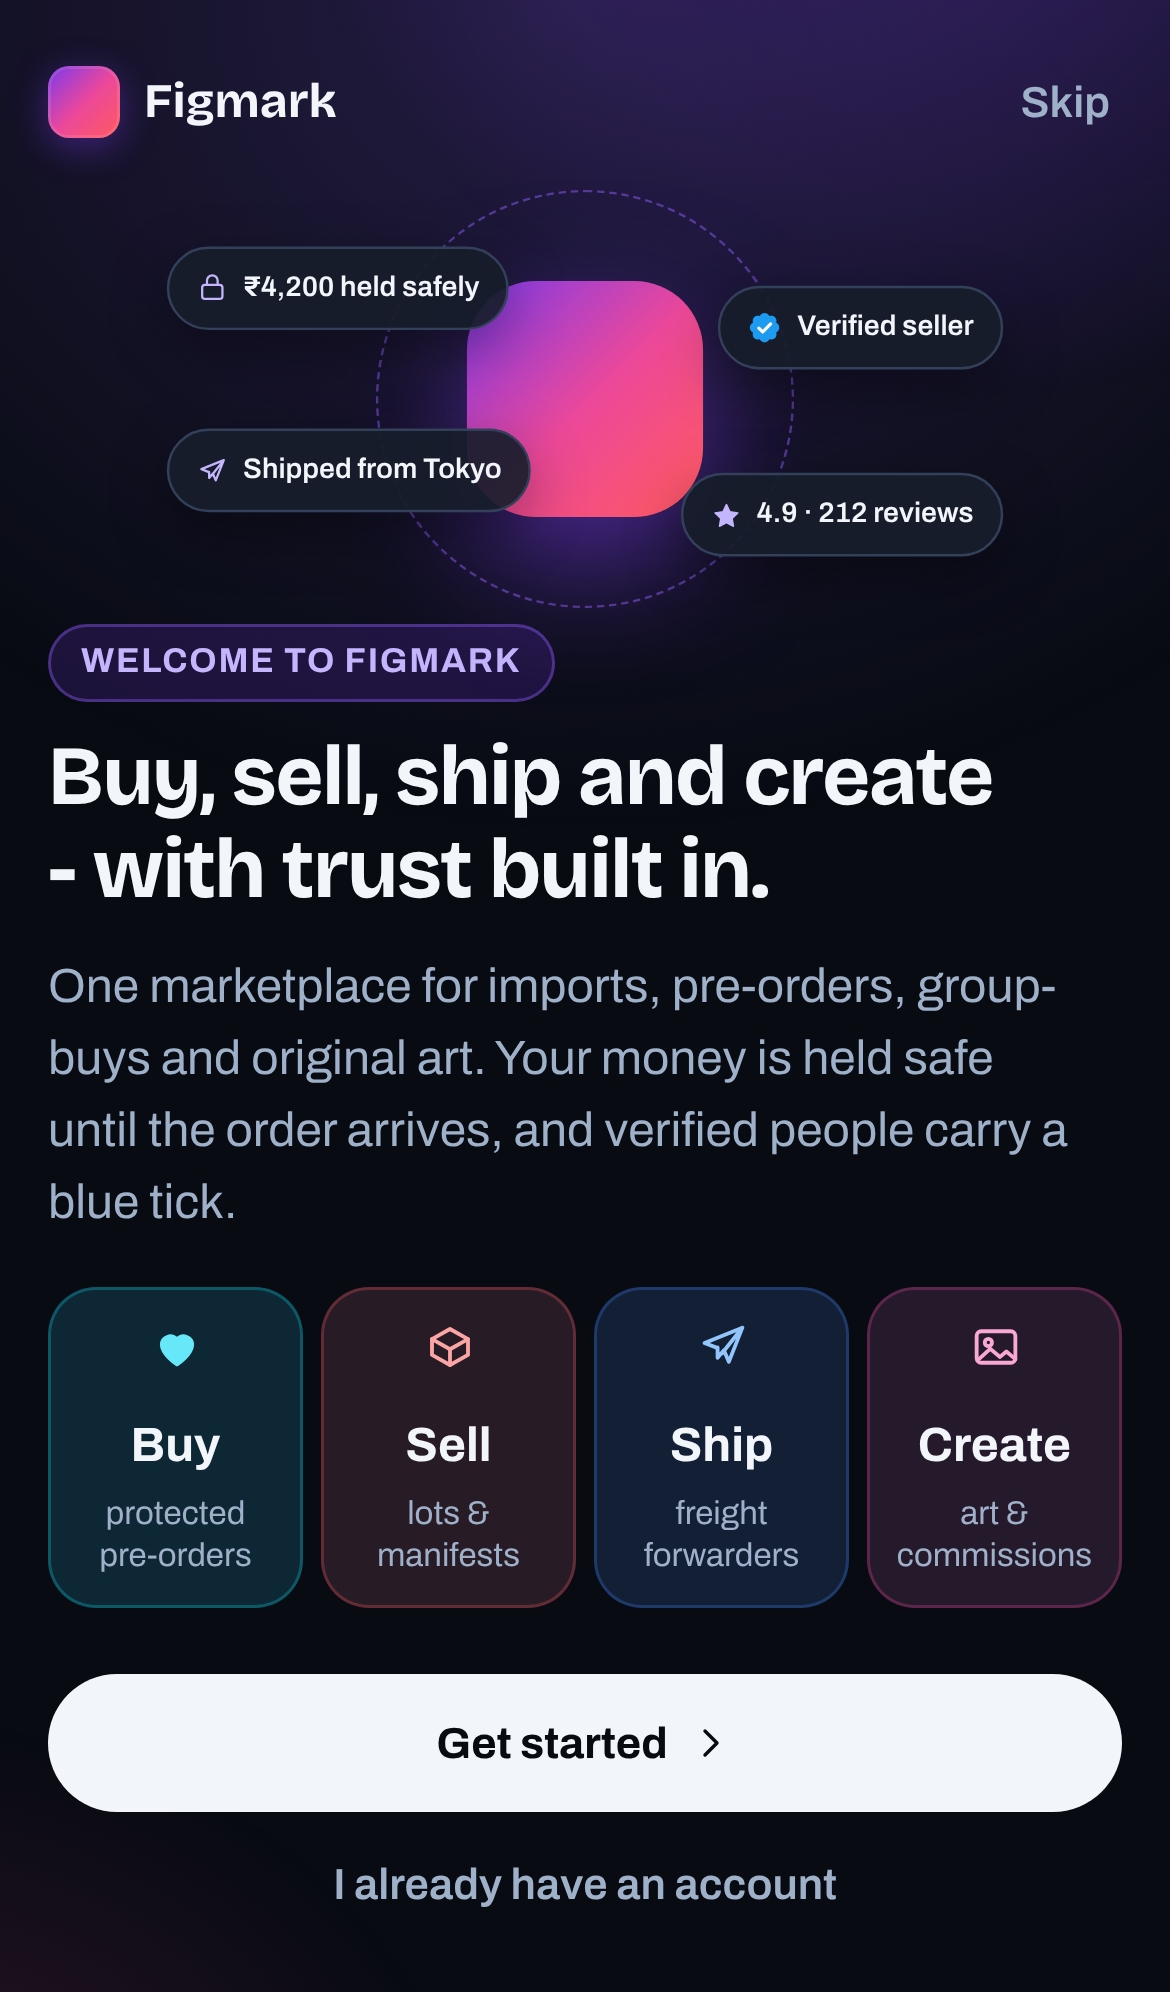
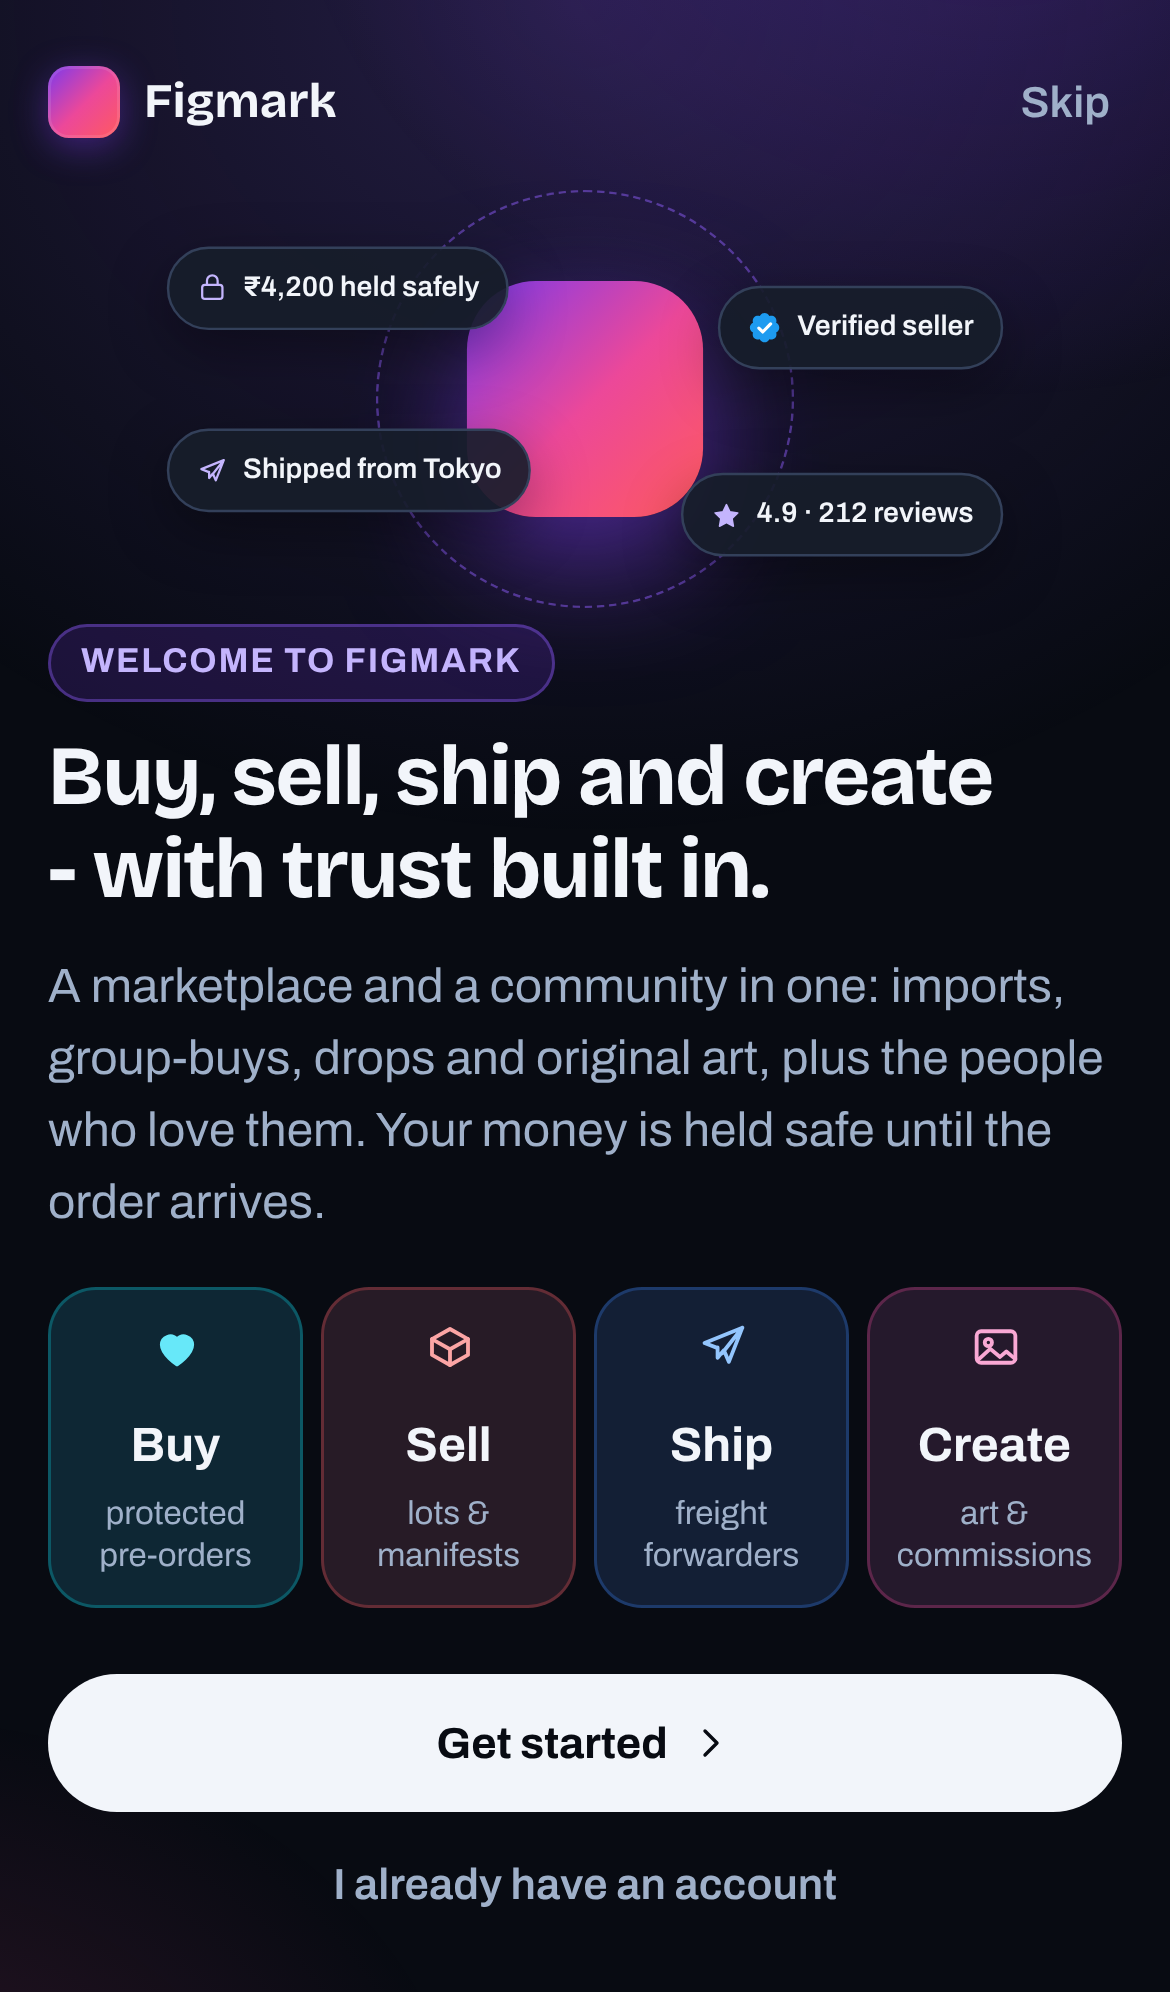
Welcome slides: Discover, Social, Drops & sales, and Collect & play
Four more slides between Artists and Why Figmark is different, each naming
what the app already does: the ranked Discover stream, Seen for sale and
photo search; the feed, shop channels, forums and the Wanted board; power
sales, pre-order lots, offers, loyalty and drop alerts; the delivered-only
collection showcase, quests, hobby leaderboards and invite links.

Claude-Session: https://claude.ai/code/session_011De3sxMF9iQpyMBfzLMFbG

Changed region(s): [[0.0308, 0.4669, 0.9538, 0.6225]]

diff --git a/app/src/pages/WelcomePage.tsx b/app/src/pages/WelcomePage.tsx
@@ -123,7 +123,7 @@ export function WelcomePage() {
 
 /* ── The slides ──────────────────────────────────────────────────────────── */
 
-type Tone = 'violet' | 'aqua' | 'coral' | 'blue' | 'pink' | 'gold';
+type Tone = 'violet' | 'aqua' | 'coral' | 'blue' | 'pink' | 'gold' | 'lime' | 'orange';
 
 interface Slide {
   id: string;
@@ -141,7 +141,7 @@ const SLIDES: Slide[] = [
     tone: 'violet',
     kicker: 'Welcome to Figmark',
     title: 'Buy, sell, ship and create - with trust built in.',
-    lede: 'One marketplace for imports, pre-orders, group-buys and original art. Your money is held safe until the order arrives, and verified people carry a blue tick.',
+    lede: 'A marketplace and a community in one: imports, group-buys, drops and original art, plus the people who love them. Your money is held safe until the order arrives.',
     art: GistArt,
   },
   {
@@ -194,23 +194,79 @@ const SLIDES: Slide[] = [
     lede: 'A home for original work, where collectors pay with confidence and you get paid on time.',
     points: [
       ['image', 'A portfolio that sells', 'your page, your prints, your originals'],
-      ['spark', 'Drops & limited editions', 'take pre-orders before you print'],
+      ['spark', 'Limited editions', 'take pre-orders for a print run before you print'],
       ['message', 'Commissions, safely', 'advances held by Figmark until you deliver'],
       ['users', 'Your community', 'followers, posts and channels in one place'],
     ],
     art: ArtistArt,
   },
   {
-    id: 'unique',
+    id: 'discover',
+    tone: 'lime',
+    kicker: 'Discover',
+    title: "Find things you didn't know to search for.",
+    lede: 'Finds, shelves and conversations, ranked for you.',
+    points: [
+      ['spark', 'Five ways to browse', 'For you, Live, Debates, Shelves and Finds'],
+      ['eye', 'Seen it? Buy it', 'tap a photo in a post to see if it is for sale'],
+      ['camera', 'Search with a photo', 'snap a picture, get matching items and shops'],
+      ['trophy', "The week's best", 'the top posts and shelves, one tap away'],
+    ],
+    art: DiscoverArt,
+  },
+  {
+    id: 'social',
+    tone: 'violet',
+    kicker: 'Social',
+    title: 'Your hobby, with your people.',
+    lede: 'Follow collectors and shops, talk about what you love, and buy from people you already know.',
+    points: [
+      ['home', 'Your feed', 'posts and shelves from people you follow'],
+      ['megaphone', 'Shop channels', 'news, restocks and prices only members get'],
+      ['forum', 'Forums & debates', 'join the conversations everyone is having'],
+      ['target', 'Wanted board', 'post what you are hunting; sellers reply "I can get this"'],
+    ],
+    art: SocialArt,
+  },
+  {
+    id: 'drops',
+    tone: 'orange',
+    kicker: 'Drops & sales',
+    title: 'Drops worth turning up for.',
+    lede: 'Shops run sales on Figmark, and the people who show up get rewarded.',
+    points: [
+      ['bolt', 'Power sales', 'channel-only prices, item by item'],
+      ['box', 'Pre-order drops', 'join a group-buy lot before it fills up'],
+      ['tag', 'Offers & loyalty', 'shop offers and loyalty cards that reward coming back'],
+      ['bell', 'Never miss one', 'alerts on your phone the moment a drop goes live'],
+    ],
+    art: DropsArt,
+  },
+  {
+    id: 'play',
     tone: 'gold',
+    kicker: 'Collect & play',
+    title: 'Show off your collection. Level up.',
+    lede: 'Every buy, review and share counts.',
+    points: [
+      ['star', 'A collection that is real', 'your showcase is built from delivered orders'],
+      ['trophy', 'Quests & streaks', 'earn XP, levels and stickers'],
+      ['rising', 'Hobby leaderboards', 'sneakers, figures, cards and more'],
+      ['users', 'Spread the word', 'your invite link counts every friend who joins'],
+    ],
+    art: PlayArt,
+  },
+  {
+    id: 'unique',
+    tone: 'aqua',
     kicker: 'Why Figmark is different',
     title: 'Trust is the product.',
     lede: 'Other marketplaces list things. Figmark makes sure both sides can rely on each other.',
     points: [
-      ['check', 'Blue tick people', 'WhatsApp and Aadhaar verified, shown on every profile'],
+      ['check', 'Blue tick people', 'WhatsApp and Aadhaar verified'],
       ['lock', 'Money held, not sent', 'released only when the order is delivered'],
       ['star', 'Reviews you can believe', 'two-sided, and only from completed orders'],
-      ['users', 'The whole chain, one app', 'buyers, sellers, forwarders and artists together'],
+      ['users', 'Shopping and community, together', 'buyers, sellers, forwarders and artists in one app'],
     ],
     art: TrustArt,
   },
@@ -992,6 +1048,38 @@ function ArtistArt() {
     <Orb icon="image">
       <Float at="tl" delay={100}><Icon name="spark" size={13} /> Drop · 50 prints</Float>
       <Float at="br" delay={300}>Commission advance <b>held</b></Float>
+    </Orb>
+  );
+}
+function DiscoverArt() {
+  return (
+    <Orb icon="spark">
+      <Float at="tl" delay={100}><Icon name="eye" size={13} /> Seen for sale · 3 shops</Float>
+      <Float at="br" delay={300}><Icon name="rising" size={13} /> Trending in Sneakers</Float>
+    </Orb>
+  );
+}
+function SocialArt() {
+  return (
+    <Orb icon="forum">
+      <Float at="tl" delay={100}><Icon name="heart" size={13} /> 128 love this shelf</Float>
+      <Float at="br" delay={300}><Icon name="target" size={13} /> Wanted · 4 sellers replied</Float>
+    </Orb>
+  );
+}
+function DropsArt() {
+  return (
+    <Orb icon="bolt">
+      <Float at="tl" delay={100}><Icon name="bolt" size={13} /> Drop live · 10:00 PM</Float>
+      <Float at="br" delay={300}>Channel price <b>-20% for 15 min</b></Float>
+    </Orb>
+  );
+}
+function PlayArt() {
+  return (
+    <Orb icon="trophy">
+      <Float at="tl" delay={100}><Icon name="spark" size={13} /> +40 XP · 7-day streak</Float>
+      <Float at="br" delay={300}><Icon name="rising" size={13} /> #12 on Action figures</Float>
     </Orb>
   );
 }

diff --git a/app/src/styles/Welcome.css b/app/src/styles/Welcome.css
@@ -9,6 +9,8 @@
 .wel--blue     { --tone: var(--blue);       --tone-text: var(--blue-pale);   --tone-soft: var(--blue-soft);   --tone-ink: #FFFFFF; }
 .wel--pink     { --tone: var(--pink);       --tone-text: var(--pink-pale);   --tone-soft: var(--pink-soft);   --tone-ink: var(--pink-ink); }
 .wel--gold     { --tone: var(--gold);       --tone-text: var(--gold-text);   --tone-soft: rgba(245, 158, 11, 0.16); --tone-ink: var(--gold-ink); }
+.wel--lime     { --tone: var(--lime);       --tone-text: var(--lime-pale);   --tone-soft: var(--lime-soft);   --tone-ink: var(--lime-ink); }
+.wel--orange   { --tone: #F97316;           --tone-text: #FDBA74;            --tone-soft: rgba(249, 115, 22, 0.16); --tone-ink: #2A1200; }
 .wel--whatsapp { --tone: #25D366;           --tone-text: #86EFAC;            --tone-soft: rgba(37, 211, 102, 0.16); --tone-ink: #052E16; }
 
 .wel {
